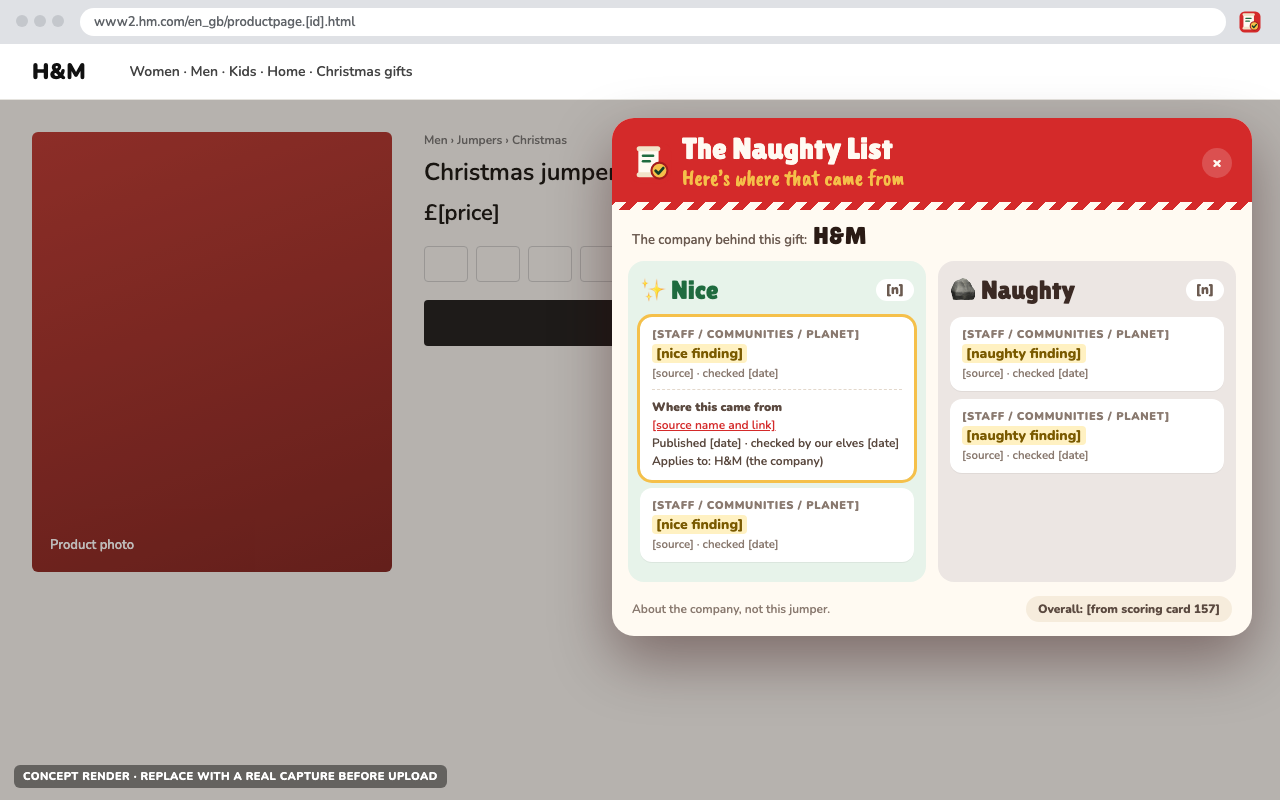
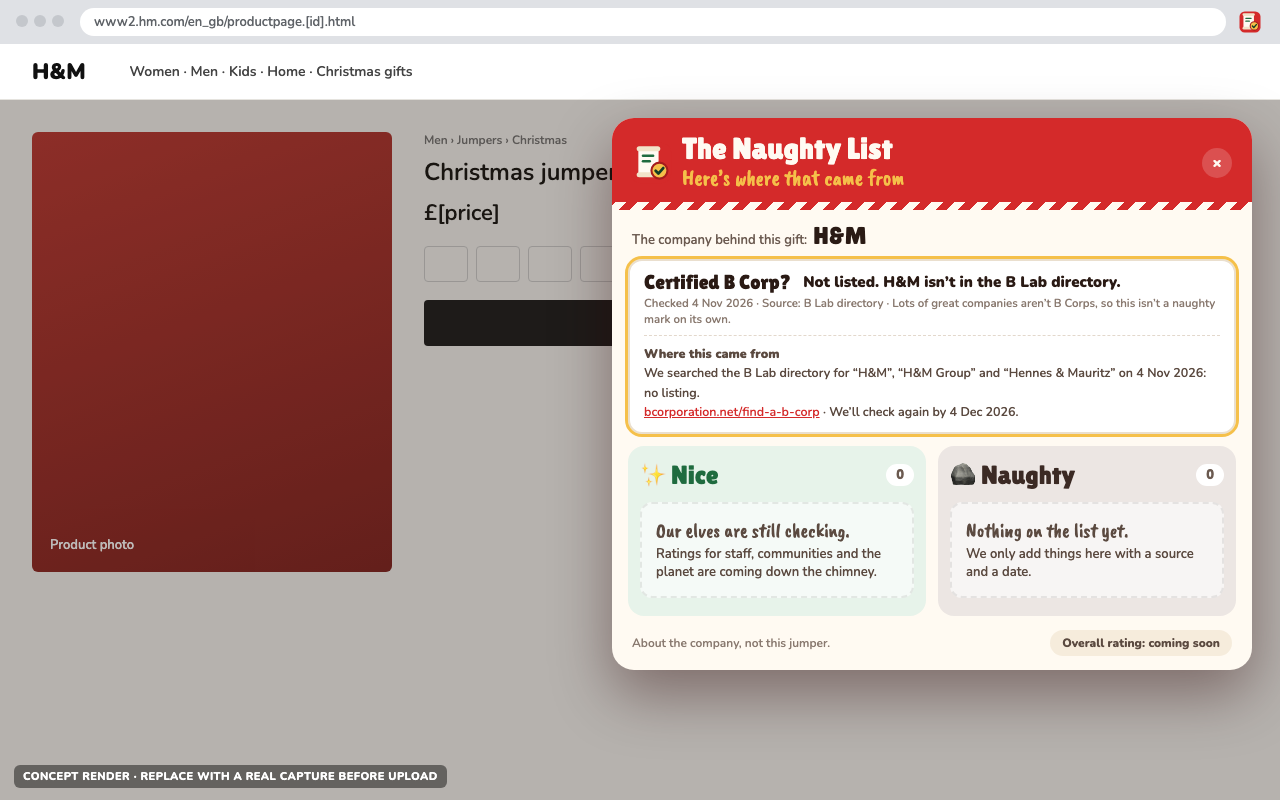
Launch assets: write copy and overlay renders from H&M's real B Corp result
Ben's assess() returns H&M matched, B Corp verified, certified: false (B Lab
directory, checked 2026-11-04; registry entry on branch hm-registry). Overlay shows
it as a neutral strip above empty Nice/Naughty columns; no verdict until card 157.

Changed region(s): [[0.4688, 0.3125, 0.9688, 0.7188], [0.4688, 0.75, 1.0, 0.875], [0.75, 0.6562, 0.9375, 0.7188]]

diff --git a/publishing/launch/src/overlay-screens.html b/publishing/launch/src/overlay-screens.html
@@ -1,7 +1,7 @@
 <!doctype html><html><head><meta charset="utf-8"><link rel="stylesheet" href="tiles.css">
 <!-- Concept render of the two-column Nice / Naughty overlay (Samira, 4 Nov). Lawrence owns the real UX; replace these with real captures once it exists.
      Variants: ?v=1 overlay open (lead screenshot) · ?v=2 one item opened to show its source.
-     Every [bracket] is deliberately unfilled: no finding about H&M is stated until the registry/scoring (card 157) supplies it. -->
+     B Corp strip uses the real registry result (branch hm-registry, 4 Nov). Columns show empty states until scoring card 157 supplies findings. -->
 <style>
 html,body{overflow:hidden}
 body{background:#f4f3f0;color:#1b1a17;font-family:"Nunito",sans-serif;font-weight:600}
@@ -29,8 +29,14 @@ h2{font:600 24px "Nunito",sans-serif;margin-bottom:6px}
 .hd::after{content:"";position:absolute;left:0;right:0;bottom:0;height:8px;background:repeating-linear-gradient(-45deg,var(--snow) 0 8px,var(--red) 8px 16px)}
 .brand{padding:12px 20px 0;font-size:13px;color:#6b5a50}
 .brand b{font:24px "Lilita One",sans-serif;color:#2a1a14;margin-left:6px}
+.bc{margin:10px 16px 0;background:#fff;border:2px solid #eadfce;border-radius:14px;padding:10px 14px;display:grid;grid-template-columns:auto 1fr;gap:2px 12px;align-items:center}
+.bc .q{font:20px "Lilita One",sans-serif;color:#2a1a14}
+.bc .a{font-weight:900;font-size:15px;color:#2a1a14}
+.bc .m{grid-column:1/-1;font-size:11.5px;color:#8a7a70}
+.empty{background:rgba(255,255,255,.6);border:2px dashed rgba(0,0,0,.08);border-radius:12px;padding:14px;font-size:13px;color:#5b4a40;line-height:1.45}
+.empty b{display:block;font:20px "Caveat Brush",cursive;color:inherit;margin-bottom:2px}
 .cols{display:grid;grid-template-columns:1fr 1fr;gap:12px;padding:12px 16px 4px}
-.col{border-radius:16px;padding:12px;min-height:250px}
+.col{border-radius:16px;padding:12px;min-height:170px}
 .nice{background:#e7f3ea}
 .naughty{background:#ece6e3}
 .ch{display:flex;align-items:center;gap:8px;font:26px "Lilita One",sans-serif;margin-bottom:10px}
@@ -59,25 +65,24 @@ h2{font:600 24px "Nunito",sans-serif;margin-bottom:6px}
 <div class="ol">
   <div class="hd"><img src="icon-festive.svg"><div><div class="t">The Naughty List</div><div class="s">Checking it twice…</div></div><div class="x">×</div></div>
   <div class="brand">The company behind this gift:<b>H&amp;M</b></div>
+  <div class="bc" id="bc"><span class="q">Certified B Corp?</span><span class="a">Not listed. H&amp;M isn’t in the B Lab directory.</span><span class="m">Checked 4 Nov 2026 · Source: B Lab directory · Lots of great companies aren’t B Corps, so this isn’t a naughty mark on its own.</span></div>
   <div class="cols">
     <div class="col nice">
-      <div class="ch">✨ Nice <span class="n">[n]</span></div>
-      <div class="it" id="a"><div class="k">[Staff / Communities / Planet]</div><div class="f"><span class="ph">[nice finding]</span></div><div class="src">[source] · checked [date]</div></div>
-      <div class="it"><div class="k">[Staff / Communities / Planet]</div><div class="f"><span class="ph">[nice finding]</span></div><div class="src">[source] · checked [date]</div></div>
+      <div class="ch">✨ Nice <span class="n">0</span></div>
+      <div class="empty"><b>Our elves are still checking.</b>Ratings for staff, communities and the planet are coming down the chimney.</div>
     </div>
     <div class="col naughty">
-      <div class="ch">🪨 Naughty <span class="n">[n]</span></div>
-      <div class="it"><div class="k">[Staff / Communities / Planet]</div><div class="f"><span class="ph">[naughty finding]</span></div><div class="src">[source] · checked [date]</div></div>
-      <div class="it"><div class="k">[Staff / Communities / Planet]</div><div class="f"><span class="ph">[naughty finding]</span></div><div class="src">[source] · checked [date]</div></div>
+      <div class="ch">🪨 Naughty <span class="n">0</span></div>
+      <div class="empty"><b>Nothing on the list yet.</b>We only add things here with a source and a date.</div>
     </div>
   </div>
-  <div class="ft"><span>About the company, not this jumper.</span><span class="v">Overall: [from scoring card 157]</span></div>
+  <div class="ft"><span>About the company, not this jumper.</span><span class="v">Overall rating: coming soon</span></div>
 </div>
 <div class="tag">CONCEPT RENDER · REPLACE WITH A REAL CAPTURE BEFORE UPLOAD</div>
 <script>
 if(new URLSearchParams(location.search).get('v')==='2'){
-  const a=document.getElementById('a');a.classList.add('open');
-  a.insertAdjacentHTML('beforeend','<div class="more"><b>Where this came from</b><br><u>[source name and link]</u><br>Published [date] · checked by our elves [date]<br>Applies to: H&amp;M (the company)</div>');
+  const b=document.getElementById('bc');b.style.outline='3px solid var(--gold)';
+  b.insertAdjacentHTML('beforeend','<div class="m" style="border-top:1px dashed #e3d8cc;padding-top:8px;margin-top:6px;color:#5b4a40;font-size:12.5px;line-height:1.55"><b>Where this came from</b><br>We searched the B Lab directory for “H&amp;M”, “H&amp;M Group” and “Hennes &amp; Mauritz” on 4 Nov 2026: no listing.<br><u style="color:var(--red)">bcorporation.net/find-a-b-corp</u> · We’ll check again by 4 Dec 2026.</div>');
   document.querySelector('.s').textContent='Here’s where that came from';
 }
 </script>

diff --git a/publishing/launch/copy.md b/publishing/launch/copy.md
@@ -12,7 +12,27 @@ Drafted 4 November 2026 for Superthread card 156. For Samira to review. Nothing 
 
 Every `[square bracket]` is something the build still has to confirm before this goes live.
 
-**Build check before any of this is used:** `worker/companies.js` has no H&M entry yet. Someone has to hand-check H&M against the B Lab directory and add it with a source and date, plus explicit hostname mappings for the H&M domains the extension runs on (the Worker doesn't match subdomains or regional domains automatically). Until then the extension would show "unknown" on every H&M page. This copy deliberately doesn't say what H&M's status is: the registry entry decides that, not the copy.
+**H&M result (from Ben's assessment code, 4 Nov 15:10).** H&M is now in the registry on branch `hm-registry` (commit 8aee2d1, waiting for Ben to review and merge). I searched the B Lab directory for "H&M", "H&M Group" and "Hennes & Mauritz" and found no H&M listing, so it's recorded as a hand-checked *not certified*. Ben's `assess()` returns, for `{brand: "H&M"}`, `www2.hm.com` and `www.hm.com`:
+
+- match: **matched** (H&M)
+- B Corp: **status verified · certified: false**
+- source: B Lab directory search · checked 2026-11-04 · recheck by 2026-12-04
+- scoring: **deferred** (no total, no verdict) until card 157
+
+So the honest message today is: *H&M isn't a Certified B Corp, here's the source and date, and that's one fact, not a verdict.* Copy must never turn "not a B Corp" into "naughty" (most companies aren't B Corps).
+
+## What the overlay says on H&M today
+
+For Lawrence's Nice / Naughty overlay. The B Corp result sits above the two columns as a neutral fact, not inside either column.
+
+- **Header:** The Naughty List · *Checking it twice…*
+- **Company line:** The company behind this gift: **H&M**
+- **B Corp strip:** **Certified B Corp?** Not listed. H&M isn't in the B Lab directory of Certified B Corps. *Checked 4 Nov 2026 · Source: B Lab directory*
+- **Strip helper text (small):** Lots of great companies aren't B Corps, so this isn't a naughty mark on its own.
+- **Nice column, empty state:** *Our elves are still checking.* Ratings for staff, communities and the planet are coming down the chimney.
+- **Naughty column, empty state:** *Nothing on the list yet.* We only add things here with a source and a date.
+- **Footer:** About the company, not this jumper.
+
 
 ---
 

diff --git a/publishing/launch/video/storyboard.md b/publishing/launch/video/storyboard.md
@@ -8,15 +8,15 @@ Show only what the extension does on camera. Today that means B Corp status, the
 | --- | --- | --- |
 | 0–4s | A shop homepage full of Christmas gift ads | "Every brand looks lovely at Christmas." |
 | 4–9s | Open an H&M product page (a Christmas jumper works) | "But who's been naughty or nice?" |
-| 9–17s | The Naughty List overlay appears: H&M and its B Corp status, exactly as the registry entry says | "The Naughty List checks the company behind the gift." |
-| 17–24s | Hover or point at the source and date | "Here's where that came from, and when we checked." |
+| 9–17s | The Naughty List overlay appears: H&M, "Certified B Corp? Not listed" | "The Naughty List checks the company behind the gift. H&M isn't a Certified B Corp." |
+| 17–24s | Hover or point at the source and date | "Here's where that came from, and when we checked. One fact, not a verdict: full naughty-or-nice ratings are on the way." |
 | 24–31s | A second H&M product, same result | "It works on every H&M product page. More shops are coming." |
 | 31–36s | Quick cut of the team on stream (Twitch VOD) | "We built it live, in one day." |
 | 36–42s | End card: `store/screenshot-5-title-card-1280x800.png`, plus the download link | "The Naughty List. Free for Chrome and Firefox. Day 3 of 40 for 40." |
 
 ## Brand to film
 
-Scope is one brand, H&M, on H&M's own shop. `worker/companies.js` has no H&M entry yet, so it has to be hand-checked against the B Lab directory and added (with hostname mappings for the H&M domains) before filming. Film whatever the overlay shows, and keep the 9–17s voice-over neutral so it fits either result. Don't script or caption H&M's status before the registry entry exists.
+H&M, on H&M's own shop. Ben's assessment returns **not a Certified B Corp** (B Lab directory, checked 4 Nov 2026) once branch `hm-registry` is merged. Say it exactly like that, with the source and date on screen. Don't call it naughty, and keep the Nice / Naughty columns showing their empty states until card 157 gives them content.
 
 ## Shorts cut (9:16)
 
